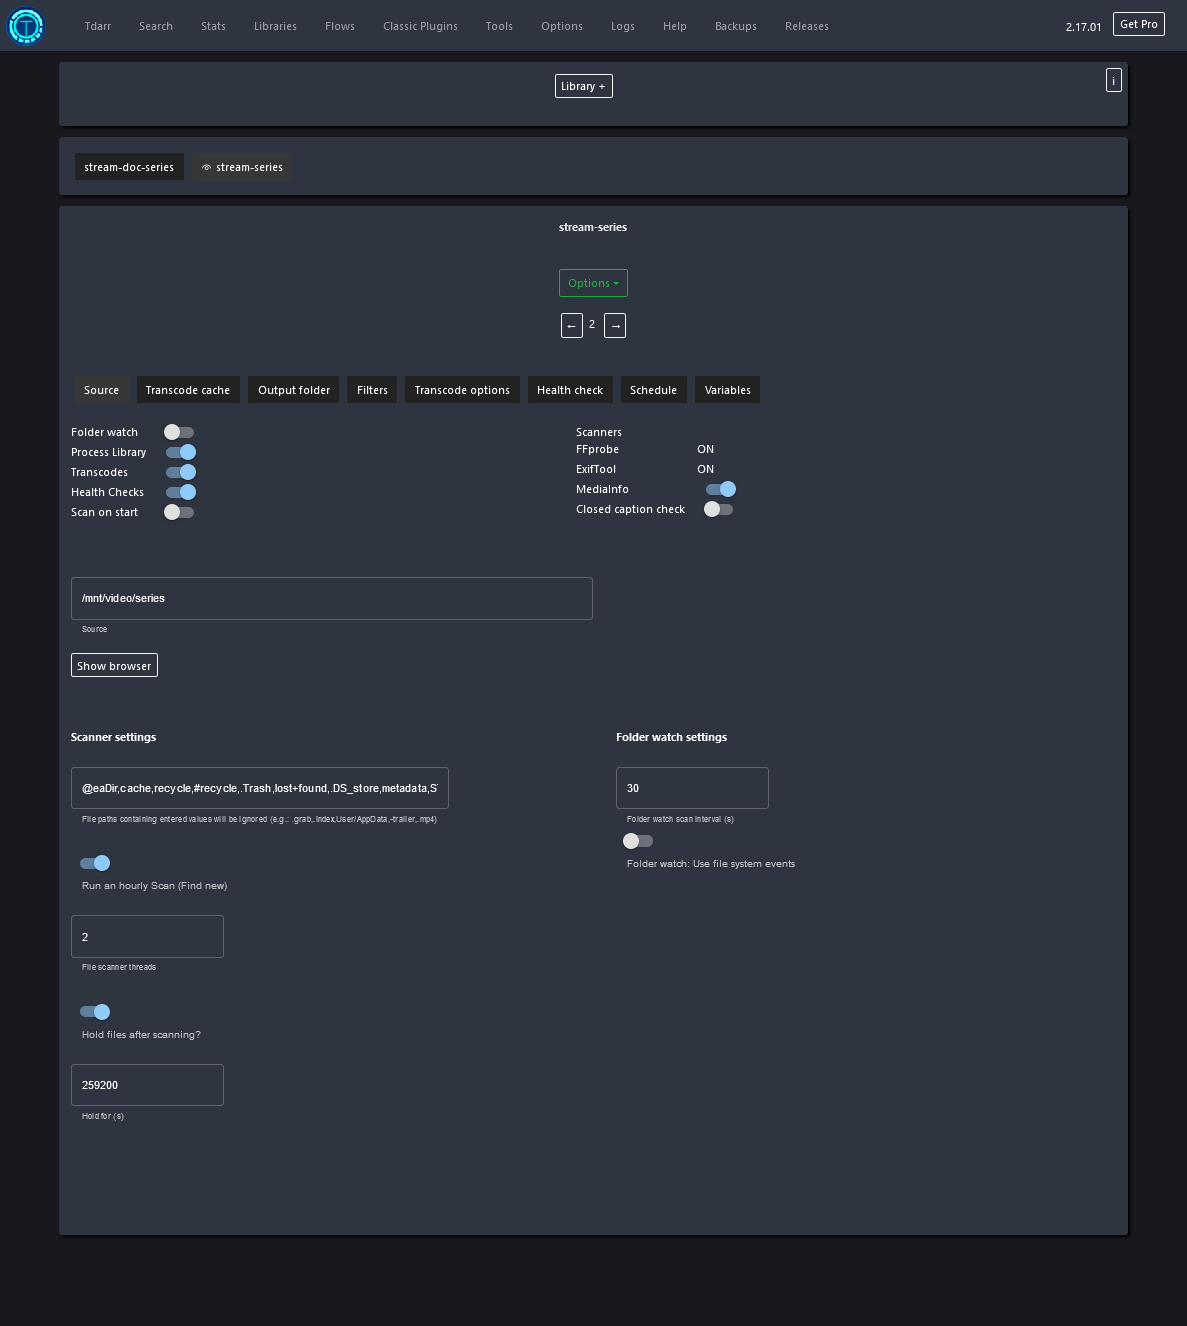
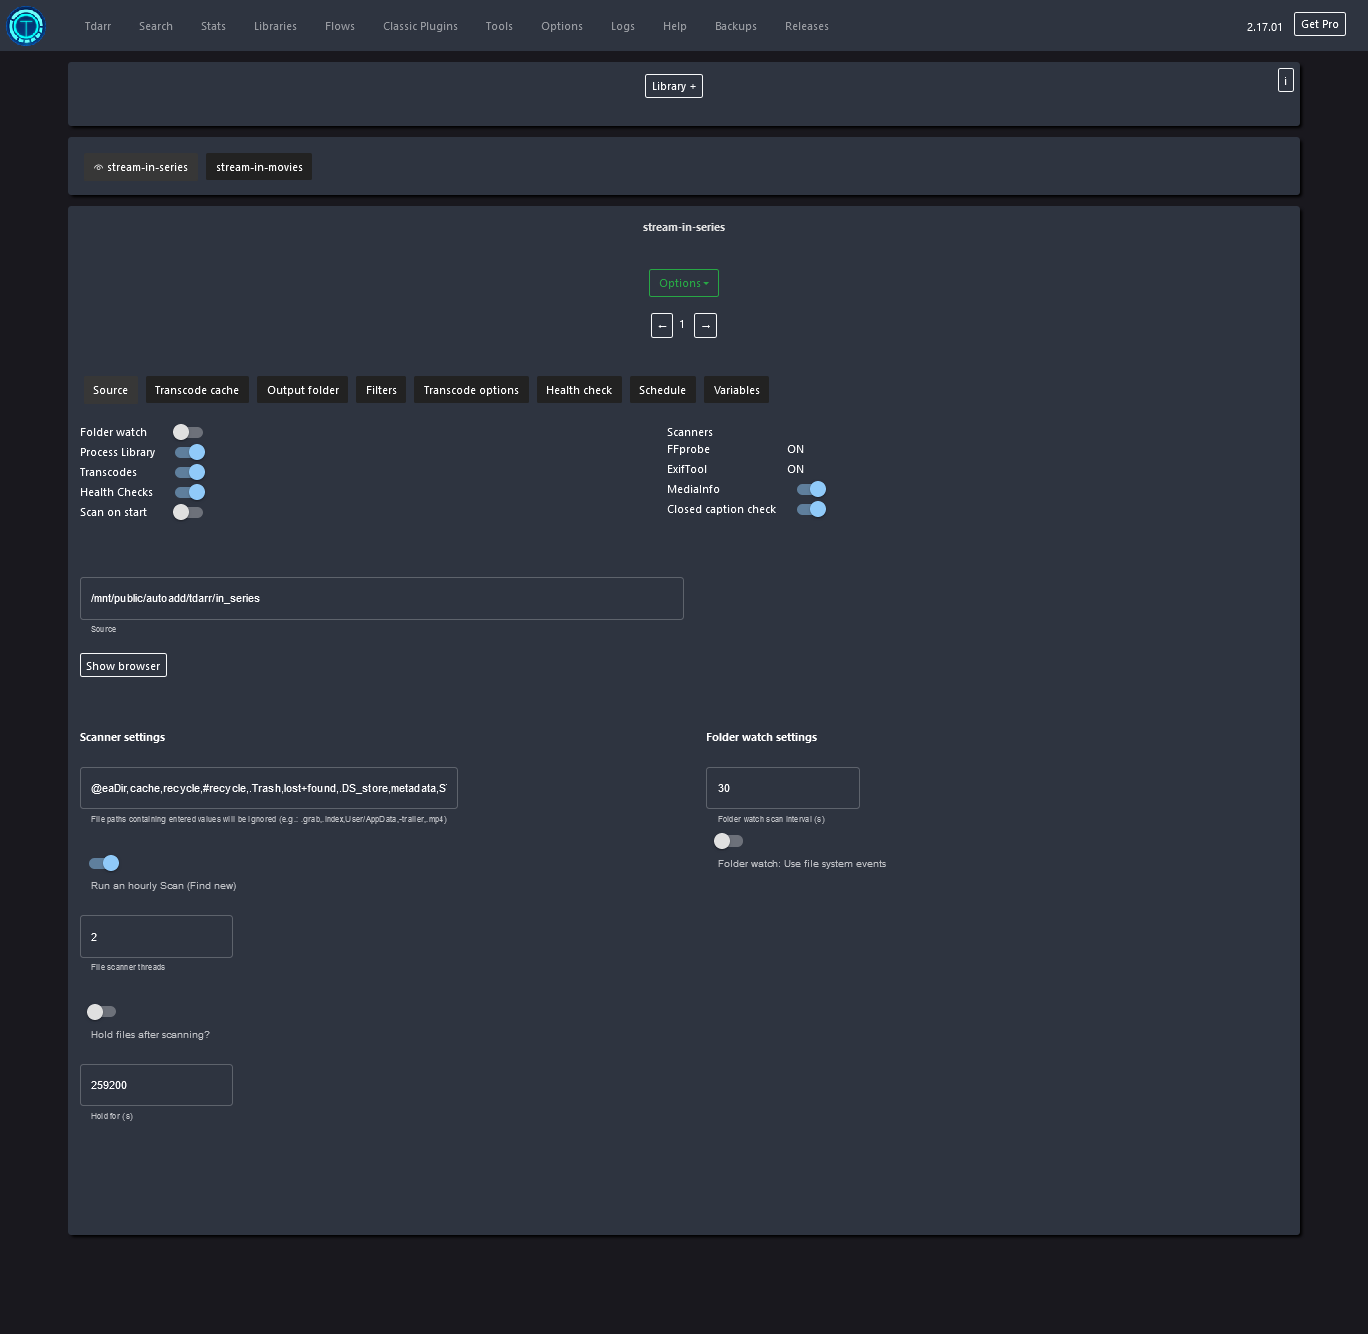
update

diff --git a/src/tdarr/config/plugins/Tdarr_Plugin_ahuacate_action_video_transcode.js b/src/tdarr/config/plugins/Tdarr_Plugin_ahuacate_action_video_transcode.js
@@ -785,7 +785,7 @@ const plugin = async (file, librarySettings, inputs, otherArguments) => {
     if (codec_type === 'video') {
       // Check if plugin already performed and if so skip plugin (stops loop issue)
       let comment = file.mediaInfo.track[i].Comment
-      if (comment === 'ahuacate_transcode') {
+      if (comment && comment.match(/ahuacate.video.transcode/i)) {
         // response.processFile = false;
         response.infoLog += `File already processed by plugin: ${details().id} \n`;
         return response;
@@ -851,6 +851,7 @@ const plugin = async (file, librarySettings, inputs, otherArguments) => {
       //   }
       // }
 
+      // Fix video filter ending
       if (videoFilters.endsWith(',')) {
         videoFilters = videoFilters.slice(0, -1);  // Remove the trailing comma if it exists
       }
@@ -893,7 +894,7 @@ const plugin = async (file, librarySettings, inputs, otherArguments) => {
         ) {
           response.infoLog += `File is in ${inputs.target_codec} and within bitrate range.\n`;
           response.infoLog += `Remux only to ${inputs.container} container.\n`;
-          response.preset = `<io> -map 0 -c copy ${extraArguments} -metadata comment=ahuacate_transcode`;
+          response.preset = `<io> -map_metadata -1 -map 0 -c copy ${extraArguments} -metadata comment=ahuacate.video.transcode`;
           response.processFile = true;
           return response;
         }
@@ -909,7 +910,7 @@ const plugin = async (file, librarySettings, inputs, otherArguments) => {
       ) {
         response.infoLog += `File is in ${inputs.target_codec}.\n`;
         response.infoLog += `Remux only to ${inputs.container} container.\n`;
-        response.preset = `<io> -map 0 -c copy ${extraArguments} -metadata comment=ahuacate_transcode`;
+        response.preset = `<io> -map_metadata -1 -map 0 -c copy ${extraArguments} -metadata comment=ahuacate.video.transcode`;
         response.processFile = true;
         return response;
       }
@@ -974,10 +975,10 @@ const plugin = async (file, librarySettings, inputs, otherArguments) => {
     : bitrateSettings;
   const videoFiltersOption = videoFilters ? `-vf '${videoFilters}'` : '';
   const otherTagsOption = otherTags ? otherTags.split('-').filter(tag => tag).map(tag => `-${tag}`).join(' ') : '';
-  const metaDataComment = `-metadata comment=ahuacate_transcode`;
+  const metaDataComment = `-metadata comment=ahuacate.video.transcode`;
 
   response.preset += ` ${encoderProperties.inputArgs ? encoderProperties.inputArgs : ''} ${genpts}<io>`
-    + ` -map 0 -c copy -c:v ${encoderProperties.encoder}`
+    + ` -map_metadata -1 -map 0 -c copy -c:v ${encoderProperties.encoder}`
     + ` ${encoderProperties.outputArgs ? encoderProperties.outputArgs : ''}`
     + ` ${vEncode}`
     + ` ${videoFiltersOption}`  // Add videoFilters if it has entries

diff --git a/src/tdarr/config/plugins/Tdarr_Plugin_ahuacate_filter_break_stack_if_output_file_exists.js b/src/tdarr/config/plugins/Tdarr_Plugin_ahuacate_filter_break_stack_if_output_file_exists.js
@@ -98,6 +98,21 @@ const cleanFileName = (response, outputDir, fileName) => {
 //   return checkFile(outputDir);
 // };
 
+// Check if Ahua transcode plugin already performed and if so break
+const hasBeenTranscoded = (file) => {
+  // Iterate through the tracks of the file
+  for (const track of file.mediaInfo.track) {
+      // Check if the track has a 'Comment' field
+      if (track.Comment) {
+          // Check if the 'Comment' field contains the specified string
+          if (track.Comment.match(/ahuacate\.video\.transcode/i)) {
+              return true; // File has been transcoded
+          }
+      }
+  }
+  return false; // File has not been transcoded
+};
+
 // Function to check if any video file in the output directory matches cleanedFileNameArray
 const doesFileExistInOutputDir = (outputDir, cleanedFileNameArray, originalExtension) => {
   const videoExtensions = ['.mp4', '.mkv', '.ts', '.avi'];
@@ -154,6 +169,7 @@ const plugin = (file, librarySettings, inputs, otherArguments) => {
     cleanedFileName: '',
   };
 
+
   // Clean up the file name
   cleanFileName(response, outputDir, fileName);
 
@@ -168,6 +184,14 @@ const plugin = (file, librarySettings, inputs, otherArguments) => {
     response.infoLog += `☑File already exists in the output directory: ${fileName}`;
   } else {
     response.infoLog += `☑File does not exist in the output directory: ${fileName}`;
+  }
+
+  // Check if file has been transcoded
+  if (hasBeenTranscoded(file)) {
+    response.processFile = false;
+    response.infoLog += `☒File has already been transcoded: ${fileName}`;
+  } else {
+    response.infoLog += `☑File has not been transcoded: ${fileName}`;
   }
 
   // Always return the response

diff --git a/README.md b/README.md
@@ -847,17 +847,20 @@ Included are our Ahuacate custom plugins to create a managed video stream librar
 1. Tdarr_Plugin_ahuacate_filter_by_age_and_prune
     * This plugin prevents processing source files older than a preset number of days.
     * The plugin automatically deletes files older than a specified age from your library output folder. It also deletes empty folders from your library output folder.
+    * This plugin is designed for automatic transcoding of your main movie or series library. It is not for '/public/audoadd/tdarr/in_series' type inputs.
 2. Tdarr_Plugin_ahuacate_filter_break_stack_if_output_file_exists
     * Ahua-Filter breaks out of the plugin stack if a matching video output file already exists.
 3. Tdarr_Plugin_ahuacate_action_audio_transcode
     * This plugin consolidates audio tracks into a single unified track and converts the audio to the desired format. It packages the single audio track within the video file container, aiming to minimize the size of the video container.
-3. Tdarr_Plugin_ahuacate_action_video_transcode
-    * Transcode a video only using FFmpeg. Va-api iGPU transcoding will be used if possible.
-4. Tdarr_Plugin_ahuacate_action_remove_empty_dirs
-    * This plugin removes small and empty folders from your source and output directory. It is designed for the deletion of empty folders containing erroneous left over files, ensuring your directory structure remains clean and organized.
-    * The plugin is better used in public/autoadd/tdarr category folders folders.
+4. Tdarr_Plugin_ahuacate_action_video_transcode
+    * Transcode a video only using FFmpeg. Va-api iGPU transcoding will be used if possible (if enabled).
+5. Tdarr_Plugin_ahuacate_add_subtitle_to_mkv
+    * This plugin integrates SRT subtitle languages into your Matroska MKV video container. SRT subtitle files should adhere to the iso6391 or iso6392 language format, such as 'filename.eng.srt' or 'filename.en.srt'. Select your language.
+6. Tdarr_Plugin_ahuacate_action_remove_empty_dirs
+    * This plugin removes small and empty folders from your source and output directory. It is designed for the deletion of empty folders containing erroneous leftover files, ensuring your directory structure remains clean and organized.
+    * The plugin is best used for `public/autoadd/tdarr` category folders folders.
 
-We recommend you always use the  Matroska Video file container, also known as MKV, because it encapsulates both audio and subtitles into one file.
+We recommend you always use the  Matroska Video file container, also known as MKV, because it encapsulates both audio and subtitles into one file. If you want quality video transcodes then disable iGPU to obtain x264/265 for far superior compression and outstanding video quality.
 
 ## 16.3. Ahuacate Node settings (CPU & iGPU)
 The following settings are tested using an Intel N100 iGPU. For my requirements, I do not use the CPU for transcoding other than required processing tasks. This keeps the CPU overhead low for running other Proxmox LXCs and VMs.
@@ -890,8 +893,9 @@ Key settings are:
 -- Scanner Settings: @eaDir,cache,recycle,#recycle,.Trash,lost+found,.DS_store,metadata,SYNOINDEX_MEDIA_INFO
 -- Run an hourly Scan: enable (required for PVE NFS NAS storage mounts because inotify probably doesn't work)
 -- Hold files after scanning: 259200
+-- Closed Caption Check: Enable (closed captions can cause a processing headache. Best remove them whenever possible using the community 'Tdarr_Plugin_x7ac_Remove_Closed_Caption' plugin.)
 
-It is crucial to incorporate the provided information. The retention period setting of `259200` seconds enables other applications to replace existing video files with higher-quality versions. Additionally, the Scanner settings are essential to exclude hidden files in Linux.
+It is crucial to incorporate the provided information. The retention period setting of `259200` seconds enables other media management applications, such as Sonarr or Radarr, to replace or upgrade existing video files with higher-quality versions. Additionally, the Scanner settings are essential to exclude hidden files in Linux.
 
 ```
 @eaDir,cache,recycle,#recycle,.Trash,lost+found,.DS_store,metadata,SYNOINDEX_MEDIA_INFO
@@ -928,13 +932,12 @@ Your Tdarr plugin stack settings should be as follows:
 
 > Note: When using 'Migz-Clean subtitle streams' in conjunction with Ahuacate plugins you MUST INCLUDE both ISO language 2 and 3 letter codes. For English use 'eng,en'.
 
+> Note: The sample is for transcoding a series. For series I enable GPU transcoding in the plugin 'Tdarr_Plugin_ahuacate_action_video_transcode
+Ahua-Transcode a video file' switch 'try_use_gpu'. For movies I disable this to achieve a better quality output.
+
 ![alt text](./images/Tdarr_03.png)
 
-When creating a manual source input such as `public/autoadd/tdarr/(in_movies or in_series)` we recommend you add the local plugin `Ahua-action remove empty, small dirs or folders` at the end of the plugin flow. This plugin cleans up any empty or erroneous folders left behind in your source and output folders.
-
-Example for 'stream-in-series' shown below:
-
-![alt text](./images/Tdarr_04.png)
+When creating a manual source input such as `public/autoadd/tdarr/(in_movies or in_series)` we recommend you add the local plugin `Ahua-action remove empty, small dirs or folders` at the beginning of the plugin flow. This plugin cleans up any empty or erroneous folders left behind in your source and output folders.
 
 ---
 
